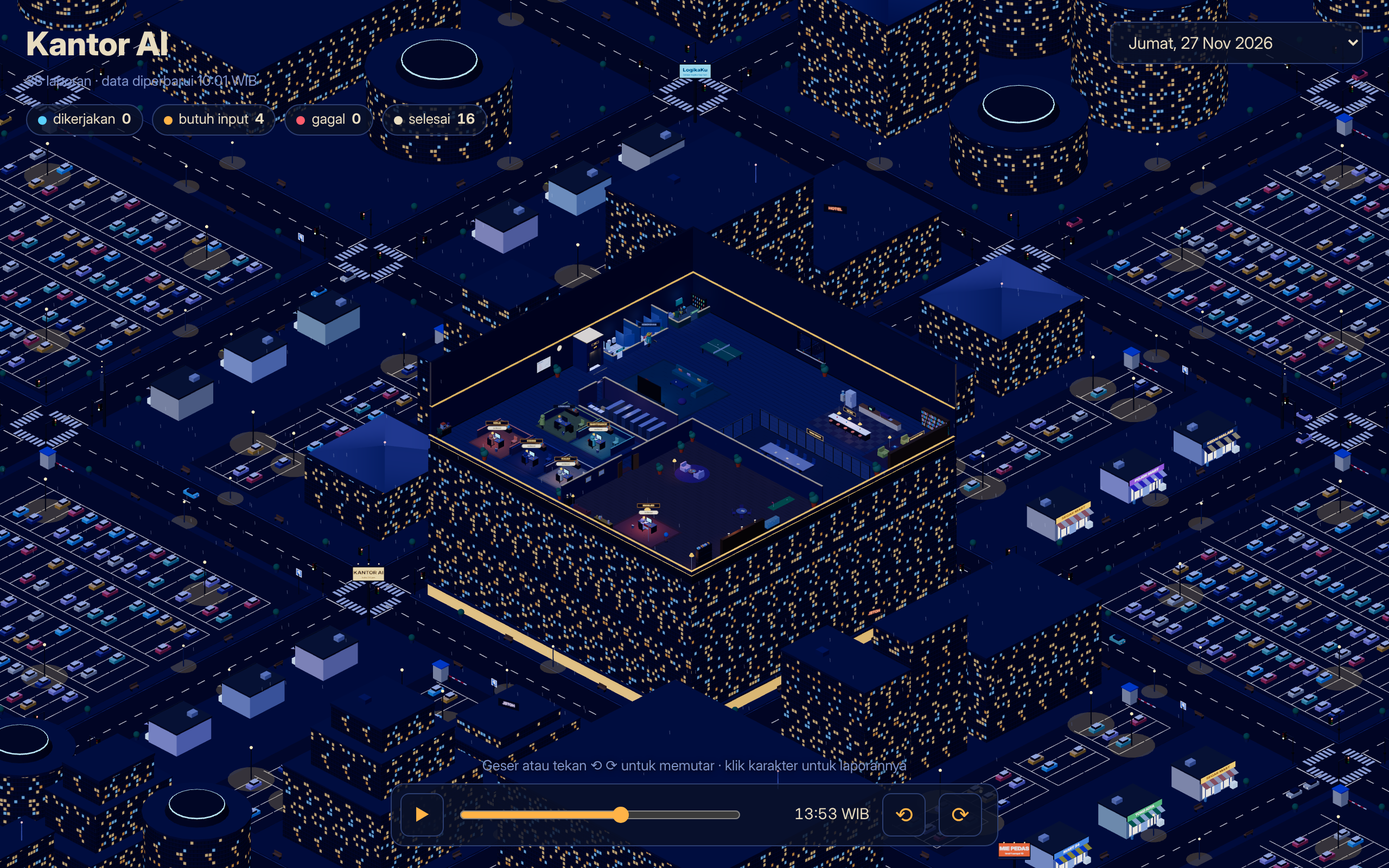
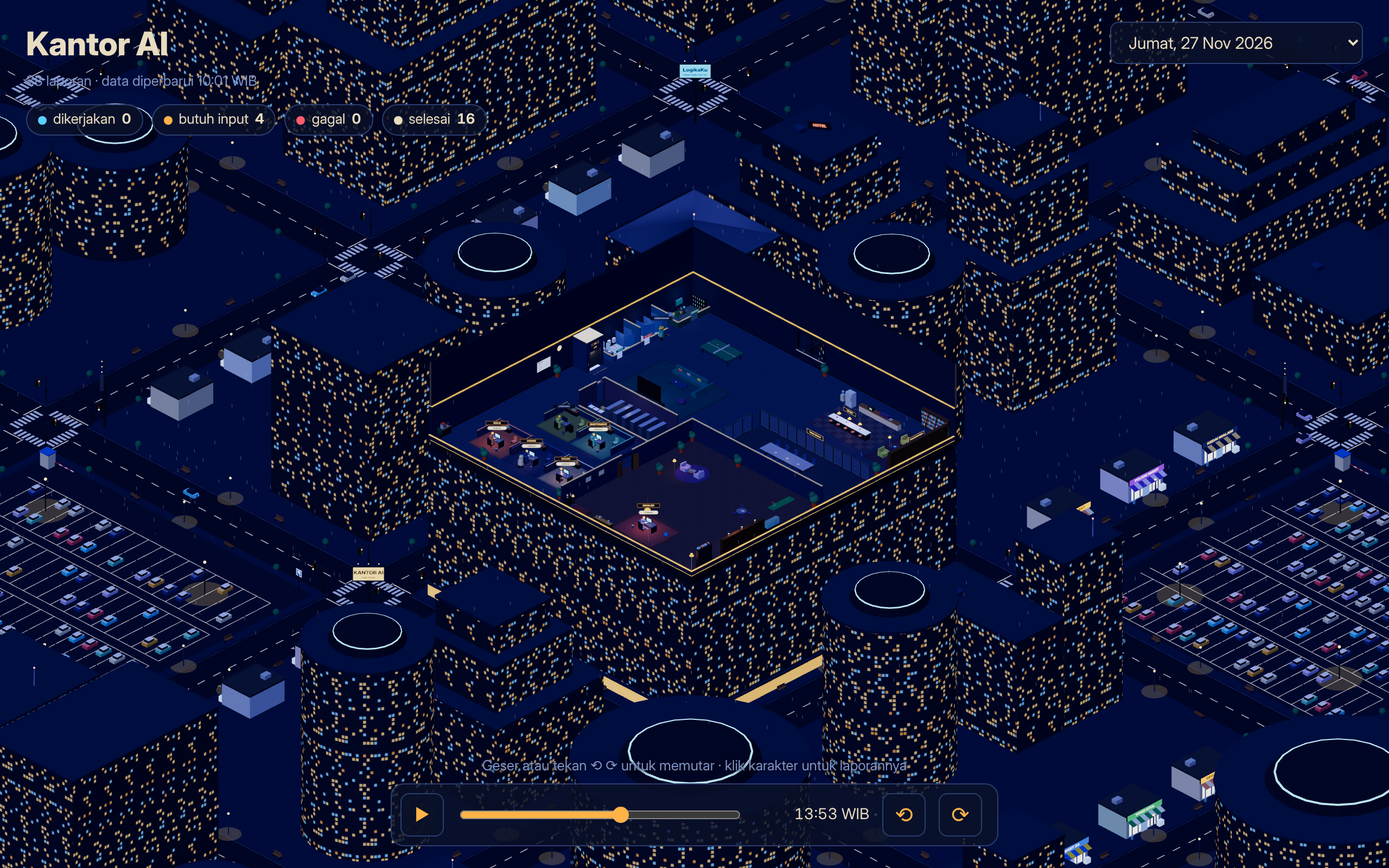
Kantor 3D: tempat parkir cukup dua, sisanya gedung tinggi
Claude-Session: https://claude.ai/code/session_01TC1644zEPKkg35o3o8SKGe

diff --git a/kantor/app.js b/kantor/app.js
@@ -324,7 +324,7 @@ function bangunKota(lebar, dalam, dinding, r) {
     const i = nomor++;
     const bentuk = BENTUK[Math.floor(r() * BENTUK.length)];
     const jauh = Math.max(Math.abs(x), Math.abs(z)) > 2.5 * P;
-    const ingin = TANAH + (jauh ? 22 + r() * 30 : 6 + r() * 18);
+    const ingin = TANAH + (jauh ? 40 + r() * 40 : 14 + r() * 26); // gedung tinggi, dibatasi maksPuncak di dekat menara
     const puncak = Math.min(ingin, maksPuncak(x, z, w, d));
     let h = puncak - TANAH;
     if (h < 5) return;
@@ -488,7 +488,7 @@ function bangunKota(lebar, dalam, dinding, r) {
   // blok ritel: dua minimarket di satu sisi, gedung kecil di sisi lain, reklame di pojok
   const RITEL = new Map([[`1,0`, 0], [`0,1`, 1], [`1,1`, 2], [`-1,0`, 3], [`0,-1`, 4], [`2,-1`, 5], [`-1,2`, 6], [`-2,-2`, 7], [`2,2`, 8], [`-2,1`, 9], [`3,0`, 10], [`0,3`, 11], [`-3,-1`, 12]]);
   // blok yang seluruhnya tempat parkir
-  const PARKIR = new Set([`1,-1`, `-1,1`, `2,0`, `0,2`, `-2,0`, `3,2`, `-3,3`, `2,-3`]);
+  const PARKIR = new Set([`1,-1`, `-1,1`]); // cukup dua lahan parkir di dekat menara kantor
   for (let i = -N; i <= N; i++) for (let j = -N; j <= N; j++) {
     if (i === 0 && j === 0) continue; // blok menara kantor
     const cx = i * P, cz = j * P;
@@ -498,9 +498,7 @@ function bangunKota(lebar, dalam, dinding, r) {
       // sisi toko menghadap jalan yang paling dekat kamera bawaan (+x/+z) bila mungkin
       const sx = (v % 2 === 0) ? 1 : -1;
       for (const [i2, dz] of [[0, -14], [1, 0], [2, 14]]) minimarket(cx + sx * (B / 2 - 5), cz + dz, sx, 0, v * 3 + i2);
-      // parkir kecil di depan deretan toko, gedung di sisi lain
-      parkir(cx + sx * 4, cz, 13, B - 6);
-      for (const sz of [-1, 1]) gedung(cx - sx * 15, cz + sz * 12, 16 + r() * 3, 18 + r() * 4);
+      for (const sz of [-1, 1]) gedung(cx - sx * 12, cz + sz * 12, 18 + r() * 4, 18 + r() * 4);
       const pz = v % 3 === 0 ? -1 : 1;
       reklame(cx + sx * (B / 2 - 1.6), cz + pz * (B / 2 - 1.6), Math.atan2(sx, pz), v);
       continue;
@@ -508,13 +506,9 @@ function bangunKota(lebar, dalam, dinding, r) {
     const n = r();
     if (n < 0.15) gedung(cx, cz, 32 + r() * 8, 32 + r() * 8);
     else if (n < 0.5) {
-      // dua gedung memanjang, atau satu gedung dan satu lahan parkir
-      const sb = r() < 0.5, lahan = r() < 0.35 ? (r() < 0.5 ? -1 : 1) : 0;
-      for (const s of [-1, 1]) {
-        const gx = cx + (sb ? s * 13 : 0), gz = cz + (sb ? 0 : s * 13);
-        if (s === lahan) parkir(gx, gz, sb ? 24 : 50, sb ? 50 : 24);
-        else gedung(gx, gz, sb ? 20 : 40, sb ? 40 : 20);
-      }
+      // dua gedung memanjang
+      const sb = r() < 0.5;
+      for (const s of [-1, 1]) gedung(cx + (sb ? s * 13 : 0), cz + (sb ? 0 : s * 13), sb ? 20 : 40, sb ? 40 : 20);
     } else if (n < 0.8) {
       for (const [sx, sz] of [[-1, -1], [1, -1], [-1, 1], [1, 1]]) gedung(cx + sx * 12.5, cz + sz * 12.5, 18 + r() * 4, 18 + r() * 4);
     } else { // enam gedung ramping
